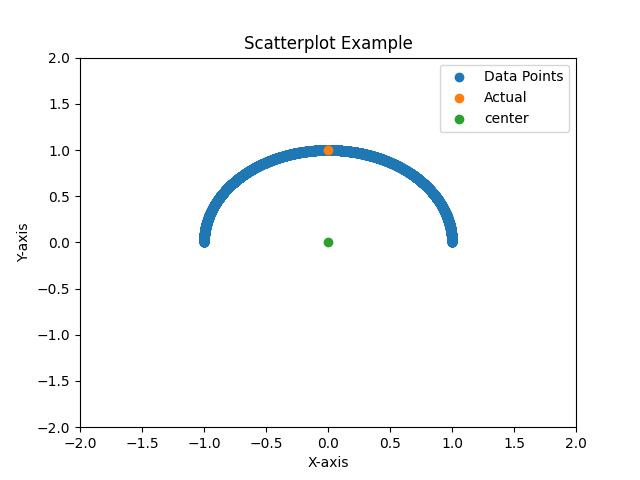
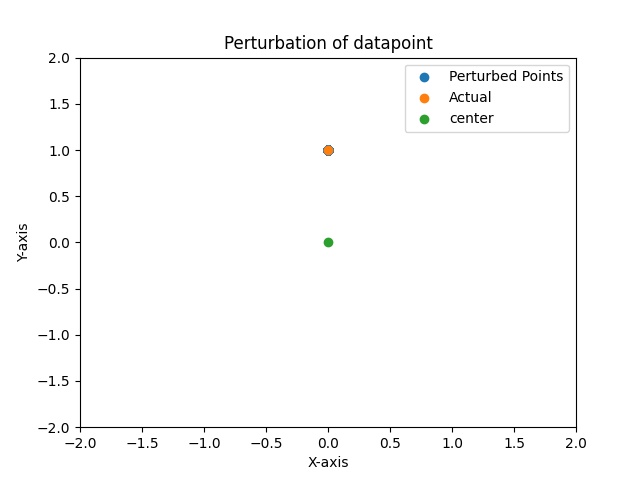
angle calculation for testing of perturbation

Changed region(s): [[0.3125, 0.2812, 0.7188, 0.5312], [0.6562, 0.125, 0.875, 0.2812], [0.3438, 0.0625, 0.6875, 0.125]]

diff --git a/angle/angle.py b/angle/angle.py
@@ -5,41 +5,31 @@ import matplotlib.pyplot as plt
 
 
 
-np.random.seed(2)
+# np.random.seed(2)
 
-a = [0, 1]
-a = a / norm(a)
-p_level = 1
+vector = np.array([0, 1])
+perturbation_level = 0.001
 
+n_rand = 1_000
 
-n_rand = 10000
+per_vectors = []
+for i in range(n_rand):
+    noise = np.random.randn(2)
+    h = vector + perturbation_level*noise*norm(vector)/norm(noise)
 
-x = np.random.randn(n_rand)
-y = np.random.randn(n_rand)
+    h /= norm(h)
 
-noise = np.array([
-    np.array([x[i], y[i]]) / norm(np.array([x[i], y[i]])) for i in range(len(x))
-])
-
-h = a + (p_level*noise)
-h_norm = norm(h, axis=1)
-
-for i in range(len(h_norm)):
-    h[i] = h[i] / h_norm[i]
-
-# print(h.shape)
-# quit()
+    per_vectors.append(h)
 
 
+per_vectors = np.array(per_vectors)
 
-x = h[:, 0]
-y = h[:, 1]
 
 # Create scatterplot
-plt.scatter(x, y, label='Data Points')
-plt.scatter(a[0], a[1], label='Actual')
+plt.scatter(per_vectors[:, 0], per_vectors[:, 1], label='Perturbed Points')
+plt.scatter(vector[0], vector[1], label='Actual')
 plt.scatter(0, 0, label='center')
-plt.title('Scatterplot Example')
+plt.title('Perturbation of datapoint')
 plt.xlabel('X-axis')
 plt.ylabel('Y-axis')
 plt.xlim((-2, 2))
@@ -50,12 +40,18 @@ plt.legend()
 plt.savefig('./angle/angle.png')
 
 cos_sim_lst = []
-for i in range(h.shape[0]):
-    cos_sim = dot(a, h[i])/(norm(a)*norm(h[i]))
+for i in range(len(per_vectors)):
+    cos_sim = dot(vector, per_vectors[i])/(norm(vector)*norm(per_vectors[i]))
     cos_sim_lst.append(cos_sim)
 
+cos_sim_lst = np.array(cos_sim_lst)
 
-print(np.arccos(min(cos_sim_lst)) * (180/np.pi))
+print()
+print('Angle')
+print('min', min(np.arccos((cos_sim_lst)) * (180/np.pi)))
+print('max', max(np.arccos((cos_sim_lst)) * (180/np.pi)))
+print('mean', np.mean(np.arccos((cos_sim_lst)) * (180/np.pi)))
+print('std', np.std(np.arccos((cos_sim_lst)) * (180/np.pi)))
 
 
 

diff --git a/angle/angle_on_clip.py b/angle/angle_on_clip.py
@@ -1,0 +1,45 @@
+import numpy as np
+from numpy import dot
+from numpy.linalg import norm
+
+
+
+
+def main():
+    clip_vectors = np.load('data/ffhq/clip_encoded_img.npz')
+
+    perturb = 0.0174
+
+    clip_v = clip_vectors['0'].reshape(512)
+    clip_v_l2 = np.linalg.norm(clip_v)
+    clip_v /= clip_v_l2
+
+    noise = np.random.randn(10_000, 512)
+    noise_l2 = np.linalg.norm(noise, axis=-1)
+
+    # print(noise_norm.shape)
+
+    cos_sim_lst = []
+    for i in range(10_000):
+        h = clip_v + (perturb*noise[i]/noise_l2[i])
+
+        h /= norm(h)
+        
+        cos_sim = dot(clip_v, h)/(norm(clip_v)*norm(h))
+        cos_sim_lst.append(cos_sim)
+        # print(cos_sim)
+
+    print()
+    print()
+    print()
+    print('min', np.min(cos_sim_lst))
+    print('max', np.max(cos_sim_lst))
+    print('mean', np.mean(cos_sim_lst))
+    print('std', np.std(cos_sim_lst))
+    
+
+
+
+
+if __name__ == '__main__':
+    main()

diff --git a/angle/calc_angle.py b/angle/calc_angle.py
@@ -23,8 +23,8 @@ def get_p_level(angle=30):
 
 
 def main():
-    get_angle()
-    get_p_level()
+    get_angle(0.25)
+    get_p_level(1)
 
 
 if __name__ == '__main__':
